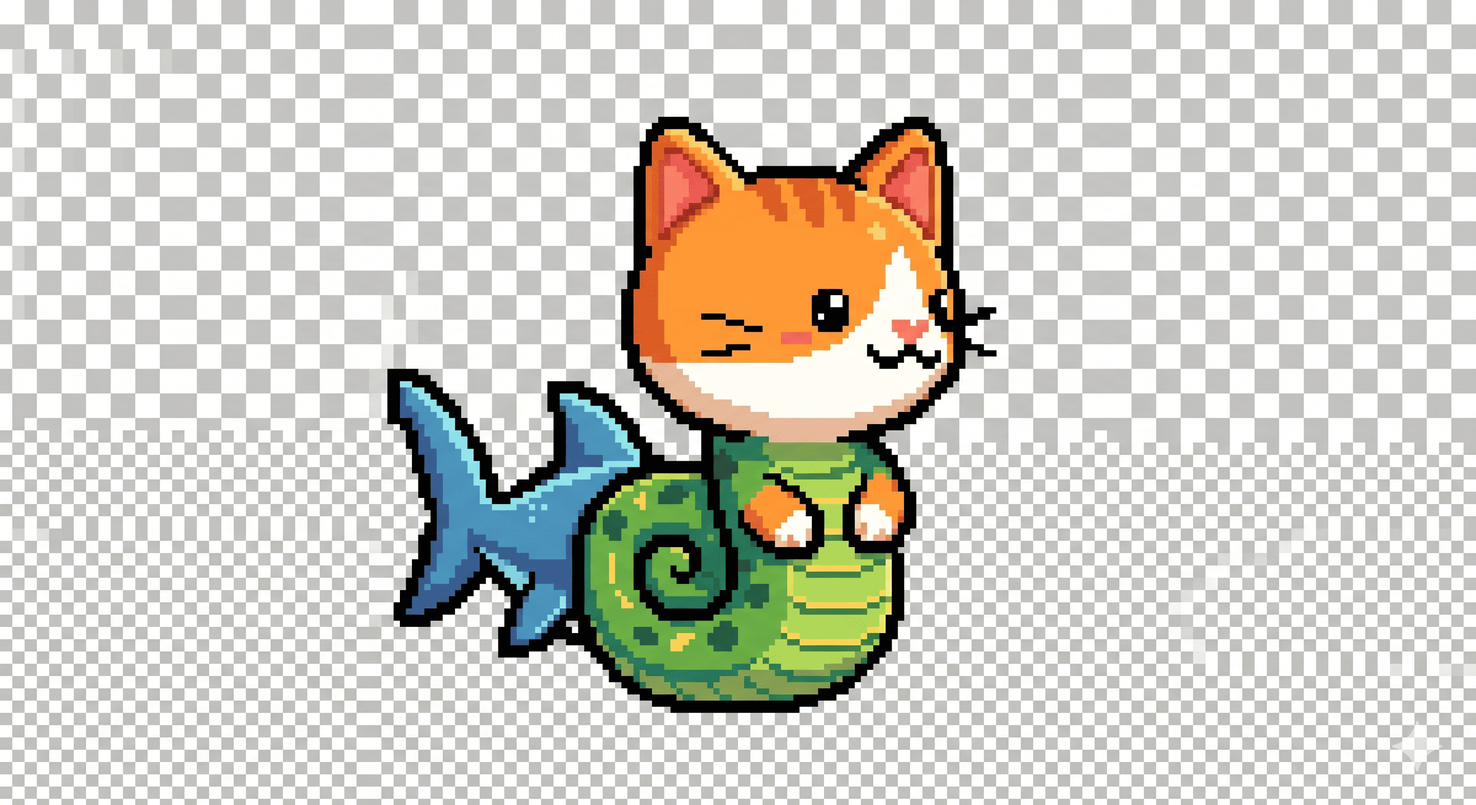
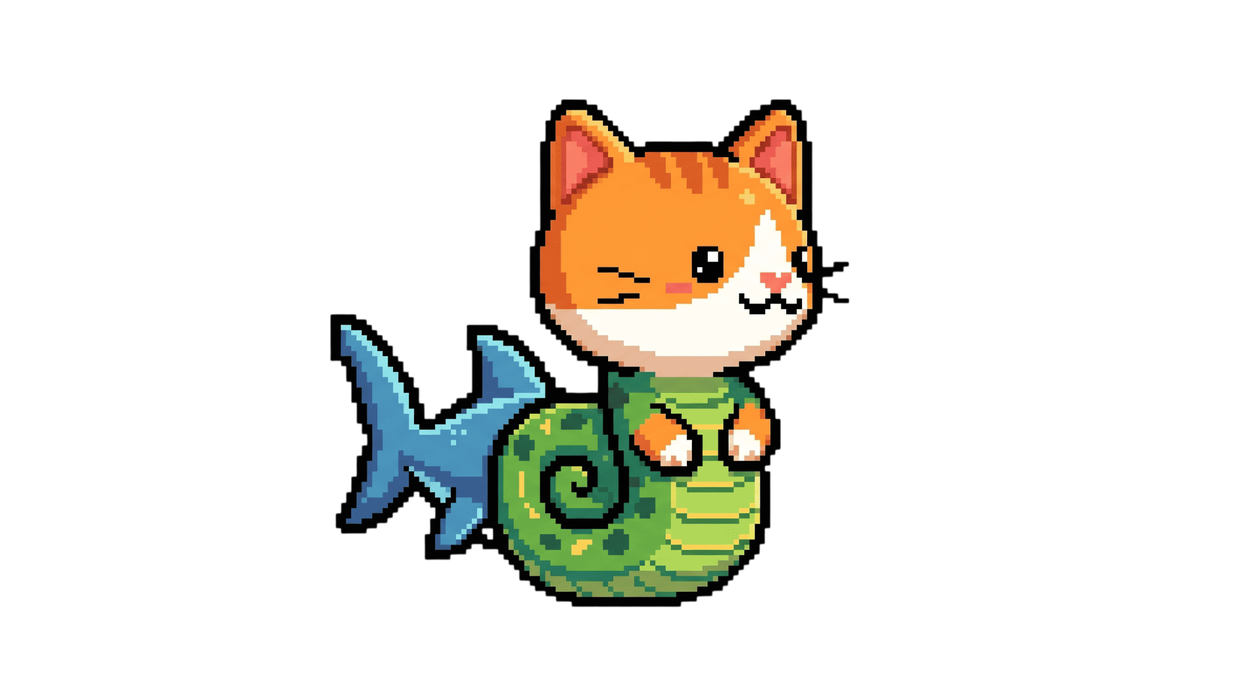
fix : 공룡게임 버튼으로 변경 , 사진변경

diff --git a/app/frontend/src/components/generation/GenerationProgress.jsx b/app/frontend/src/components/generation/GenerationProgress.jsx
@@ -45,28 +45,40 @@ function PhaseList({ completedPhases, currentPhase }) {
   )
 }
 
-function TetrisButton() {
-  const [open, setOpen] = useState(false)
+function GameOverlay({ children, onClose }) {
+  return (
+    <div className="fixed inset-0 z-50 flex items-center justify-center">
+      <div className="absolute inset-0 bg-black/70" onClick={onClose} />
+      <div className="relative flex flex-col items-center gap-3">
+        <button onClick={onClose}
+          className="absolute -top-2 -right-2 w-7 h-7 rounded-full flex items-center justify-center text-sm z-10"
+          style={{ background: 'var(--bg-secondary)', color: 'var(--text-secondary)', border: '1px solid var(--border)' }}>
+          ✕
+        </button>
+        {children}
+      </div>
+    </div>
+  )
+}
+
+function MiniGameButtons() {
+  const [open, setOpen] = useState(null) // null | 'tetris' | 'dino'
   return (
     <>
-      <button onClick={() => setOpen(true)}
-        className="w-full py-2 text-xs rounded-lg transition-colors"
-        style={{ background: 'var(--bg-secondary)', color: 'var(--text-secondary)', border: '1px solid var(--border)' }}>
-        기다리는 동안 테트리스 한 판?
-      </button>
-      {open && (
-        <div className="fixed inset-0 z-50 flex items-center justify-center">
-          <div className="absolute inset-0 bg-black/70" onClick={() => setOpen(false)} />
-          <div className="relative flex flex-col items-center gap-3">
-            <button onClick={() => setOpen(false)}
-              className="absolute -top-2 -right-2 w-7 h-7 rounded-full flex items-center justify-center text-sm z-10"
-              style={{ background: 'var(--bg-secondary)', color: 'var(--text-secondary)', border: '1px solid var(--border)' }}>
-              ✕
-            </button>
-            <Tetris />
-          </div>
-        </div>
-      )}
+      <div className="flex gap-2">
+        <button onClick={() => setOpen('dino')}
+          className="flex-1 py-2 text-xs rounded-lg transition-colors"
+          style={{ background: 'var(--bg-secondary)', color: 'var(--text-secondary)', border: '1px solid var(--border)' }}>
+          공룡 달리기
+        </button>
+        <button onClick={() => setOpen('tetris')}
+          className="flex-1 py-2 text-xs rounded-lg transition-colors"
+          style={{ background: 'var(--bg-secondary)', color: 'var(--text-secondary)', border: '1px solid var(--border)' }}>
+          테트리스
+        </button>
+      </div>
+      {open === 'tetris' && <GameOverlay onClose={() => setOpen(null)}><Tetris /></GameOverlay>}
+      {open === 'dino' && <GameOverlay onClose={() => setOpen(null)}><DinoMiniGame /></GameOverlay>}
     </>
   )
 }
@@ -77,13 +89,10 @@ export default function GenerationProgress() {
 
   const isDone = ['completed', 'completed_with_warnings', 'failed', 'cancelled'].includes(status)
   const isQueued = status === 'queued'
-  const isRunning = ['starting', 'queued', 'in_progress'].includes(status)
-  const showMiniGame = isRunning
 
   if (isQueued) {
     return (
       <div className="space-y-6">
-        {showMiniGame && <DinoMiniGame />}
         <div className="text-center py-6">
           <p className="text-lg font-bold mb-2" style={{ color: '#eab308' }}>대기열 {queuePosition}번째</p>
           <p className="text-sm mb-4" style={{ color: 'var(--text-secondary)' }}>
@@ -103,14 +112,13 @@ export default function GenerationProgress() {
           <PhaseList completedPhases={[]} currentPhase="" />
         </div>
 
-        <TetrisButton />
+        <MiniGameButtons />
       </div>
     )
   }
 
   return (
     <div className="space-y-6">
-      {showMiniGame && <DinoMiniGame />}
       {/* 진행률 바 */}
       <div>
         <div className="flex justify-between text-sm mb-2" style={{ color: 'var(--text-secondary)' }}>
@@ -144,7 +152,7 @@ export default function GenerationProgress() {
           <p className="text-xs text-center" style={{ color: 'var(--text-secondary)' }}>
             게임 생성에는 약 5~10분이 소요됩니다.
           </p>
-          <TetrisButton />
+          <MiniGameButtons />
         </>
       )}
     </div>
